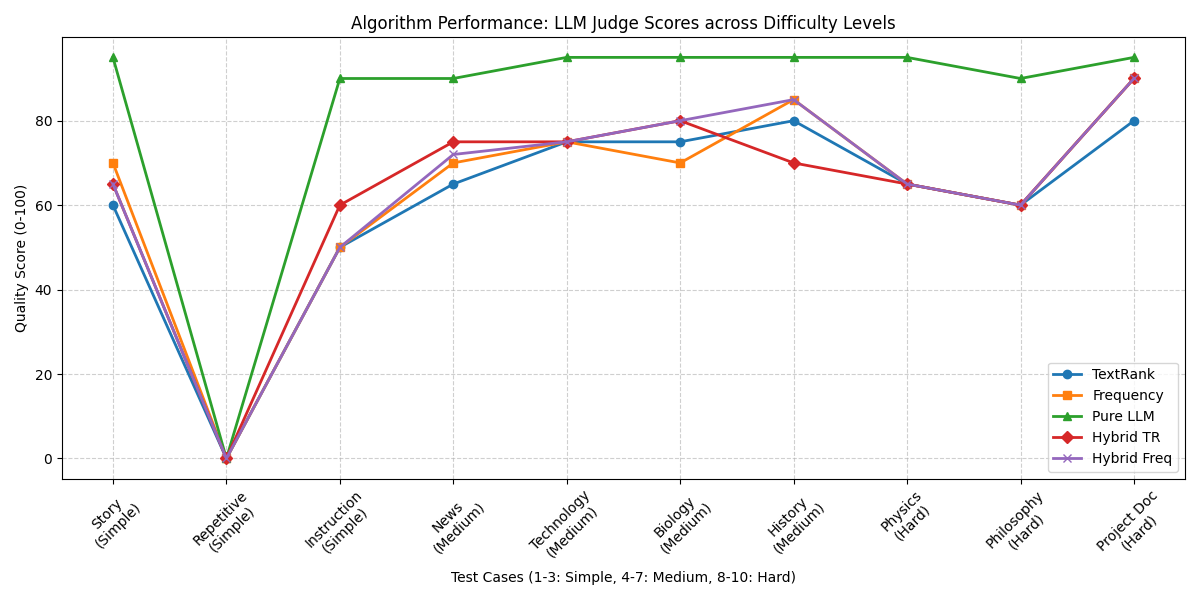
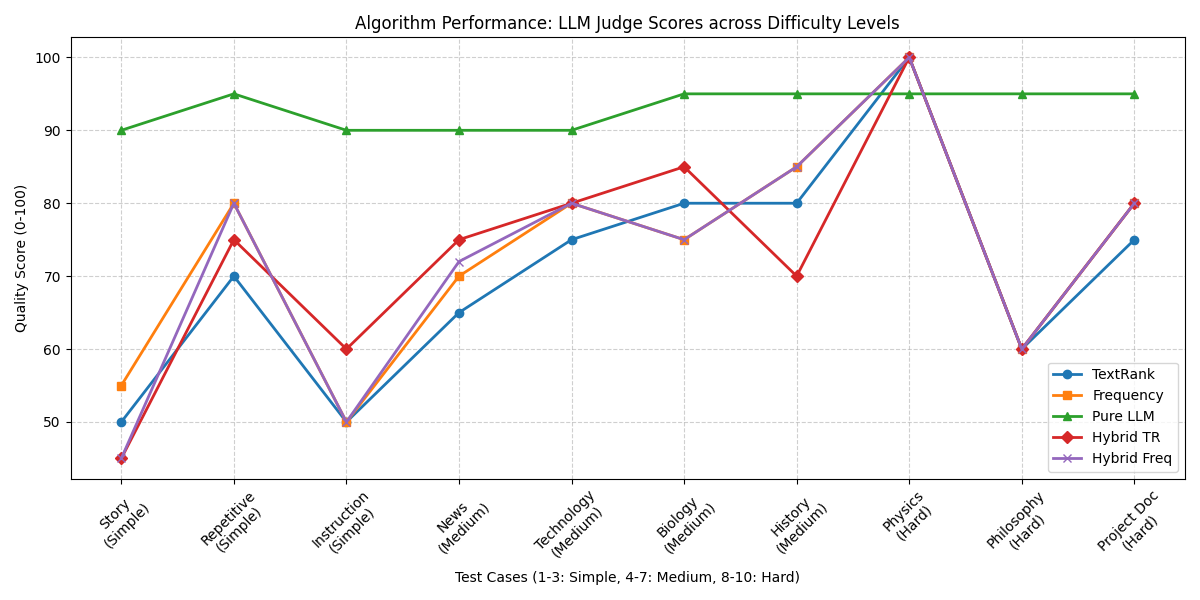
Clean unneccesery exceptions

diff --git a/main.py b/main.py
@@ -6,7 +6,7 @@ from src.utils import load_config, setup_logger, read_text_file, save_summary
 from src.preprocessing import split_into_sentences, filter_sentences
 from src.llm_oracle import LLMOracle
 from src.hybrid_merge import HybridMerger
-from src.classic_strategies import get_strategy  # <--- Import جدید
+from src.classic_strategies import get_strategy 
 import warnings
 
 warnings.filterwarnings("ignore")
@@ -42,7 +42,6 @@ def main():
     start_time = time.time()
     
     try:
-        # انتخاب و اجرای استراتژی
         strategy = get_strategy(method_name)
         classic_scores = strategy.calculate_scores(sentences, config)
         
@@ -54,7 +53,7 @@ def main():
     # Generate Classic Summary Text (Top N based on classic scores)
     top_n = config['hybrid']['final_summary_count']
     ranked_indices = np.argsort(classic_scores)[::-1][:top_n]
-    ranked_indices = sorted(ranked_indices) # مرتب سازی دوباره بر اساس ترتیب متن
+    ranked_indices = sorted(ranked_indices)
     classic_summary_text = " ".join([sentences[i] for i in ranked_indices])
 
     # 5. Phase 2: LLM Oracle (Semantic)
@@ -69,7 +68,6 @@ def main():
         beta=config['hybrid']['beta']
     )
     
-    # تابع merge_scores حالا با هر نوع امتیازی (TextRank، Frequency و ...) کار میکند
     results = merger.merge_scores(sentences, classic_scores, llm_summary_text)
     final_hybrid_summary = merger.get_top_n(results, n=config['hybrid']['final_summary_count'])
 

diff --git a/src/hybrid_merge.py b/src/hybrid_merge.py
@@ -12,7 +12,6 @@ class HybridMerger:
         """
         self.alpha = alpha
         self.beta = beta
-        # Load a lightweight SBERT model for embeddings (Phase 1, Pg 9, Line 137)
         print(">> [HybridMerger] Loading Embedding Model...")
         self.model = SentenceTransformer('all-MiniLM-L6-v2')
 
@@ -27,7 +26,6 @@ class HybridMerger:
         
         semantic_scores = util.cos_sim(original_embeddings, llm_embedding).cpu().numpy().flatten()
         
-        # مشکل اصلی اینجا بود: تبدیل به بازه دقیق 0 تا 1
         t_min, t_max = np.min(textrank_scores), np.max(textrank_scores)
         if t_max > t_min:
             norm_textrank = (textrank_scores - t_min) / (t_max - t_min)
@@ -36,7 +34,6 @@ class HybridMerger:
 
         merged_results = []
         for i in range(N):
-            # حالا هر دو عدد در بازه 0-1 هستند و alpha/beta درست عمل میکنند
             final_score = (self.alpha * norm_textrank[i]) + (self.beta * semantic_scores[i])
             
             merged_results.append({

diff --git a/src/preprocessing.py b/src/preprocessing.py
@@ -20,10 +20,8 @@ def split_into_sentences(text: str) -> List[str]:
     """
     Splits the raw text into a list of sentences using NLTK.
     """
-    # استفاده از sent_tokenize که حالا پکیجهای لازم را دارد
     sentences = nltk.sent_tokenize(text)
     
-    # Basic cleanup: remove newlines inside sentences
     cleaned_sentences = [s.strip().replace('\n', ' ') for s in sentences]
     return cleaned_sentences
 
